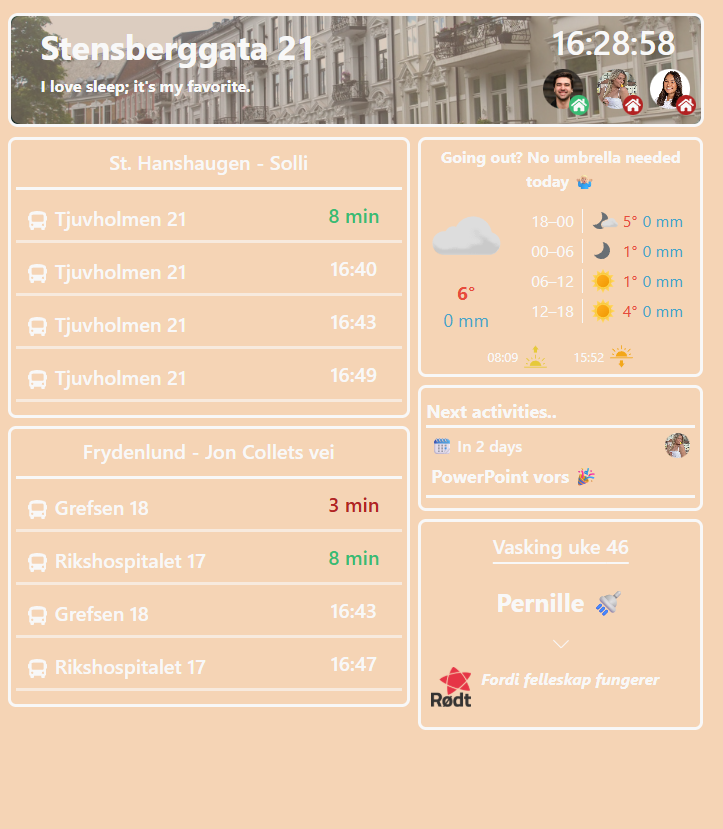
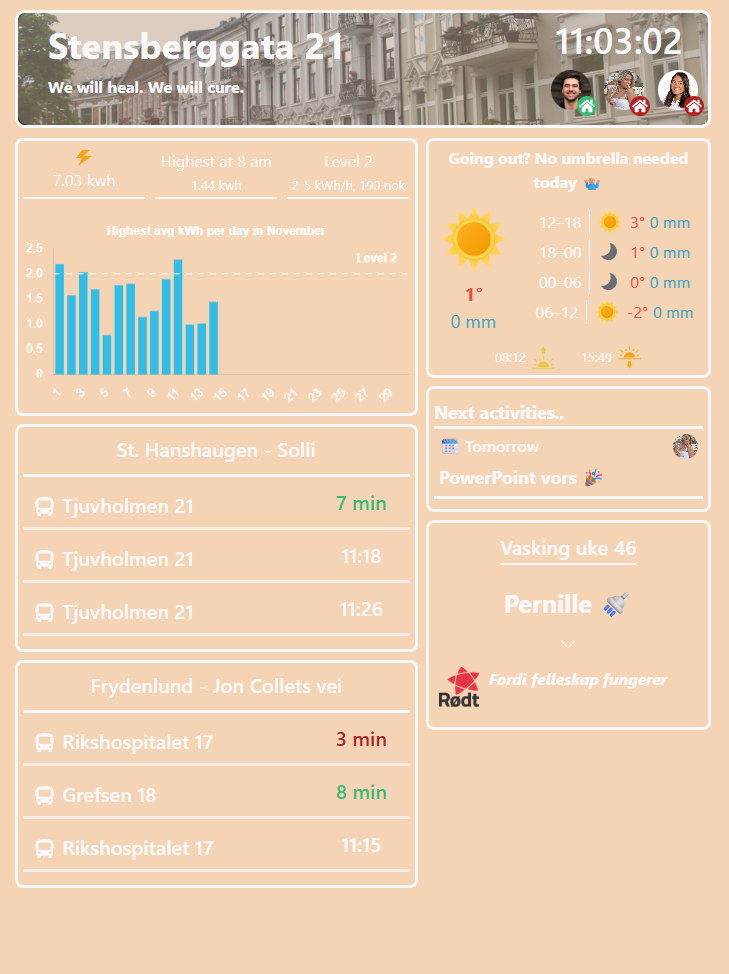
Added config changes

Changed region(s): [[0.0, 0.0, 0.9737, 0.9349]]

diff --git a/client/src/components/electricity/electricity-consumption/electricity-consumption.tsx b/client/src/components/electricity/electricity-consumption/electricity-consumption.tsx
@@ -5,7 +5,6 @@ import { ComponentData } from "../../../model/Deziarilize/ElectricityPrices";
 import moment from "moment";
 import "./electricity-consumption.css"
 import { ImPower } from "react-icons/im";
-import { setDatasets } from "react-chartjs-2/dist/utils";
 import BarChart from "../charts/bar-chart";
 
 const ElectricyConsumption: React.FC = () => {
@@ -21,6 +20,23 @@ const ElectricyConsumption: React.FC = () => {
 
     useEffect(() => setData(elecService?.getChartFormattedData()), [elecService])
     
+    useEffect(() => {
+        const updateInterval = setInterval(() => {
+          updateElectricityData();
+        }, 60 * 60 * 1000);
+    
+        return () => clearInterval(updateInterval);
+      }, []);
+
+    async function updateElectricityData() {
+        try {
+        const updatedElecData = await ElviaFetcher();
+        setElecService(updatedElecData);
+        setData(updatedElecData.getChartFormattedData())
+        } catch (error) {
+        console.error("Can't update data:", error);
+        }
+    }
 
     return (
         <div className="consumption-container">

diff --git a/client/src/App.tsx b/client/src/App.tsx
@@ -87,6 +87,11 @@ function App() {
         <div className="row g-2">
           <div className="col-md-7">
             <div className="row g-2">
+              <div className="col-12">
+                <div className="widget-container">
+                  <ElectricyConsumption />
+                </div>
+              </div>
               {Configuration.getBusStopConfigs().map((busStop) => (
                 <div className="col-12" key={busStop.title}>
                   <div className="widget-container">
@@ -100,11 +105,7 @@ function App() {
                   </div>
                 </div>
               ))}
-              <div className="col-12">
-                <div className="widget-container">
-                  <ElectricyConsumption />
-                </div>
-              </div>
+              
             </div>
           </div>
 

diff --git a/client/src/components/calender/calender-row.tsx b/client/src/components/calender/calender-row.tsx
@@ -55,7 +55,7 @@ const CalenderRow: React.FC<CalenderRowProps> = ({item, hiearchy}) => {
                 <div className="date-row">
                     <div className={`${hiearchy}-item-date`}>🗓 {item && formatDate(item.start.dateTime)}</div>
                     <div className="avatar circle">
-                        {item?.creator?.email && <img src={`./img/${setAvatarImg(item?.creator?.email)}.jpg`} className="avatar-img"/>} 
+                        {item?.creator?.email && <img src={`./img/${setAvatarImg(item?.creator?.email)}.jpg`} className="avatar-img" alt="avatar"/>} 
                      </div>
                 </div>
                  <div className={`summary ${hiearchy}-item-summary`}>{item && formatSummary(item.summary)}</div> 

diff --git a/client/src/components/electricity/charts/bar-chart.tsx b/client/src/components/electricity/charts/bar-chart.tsx
@@ -1,4 +1,3 @@
-import { useState } from "react";
 import { ComponentData } from "../../../model/Deziarilize/ElectricityPrices";
 import {
   Chart as ChartJS,
